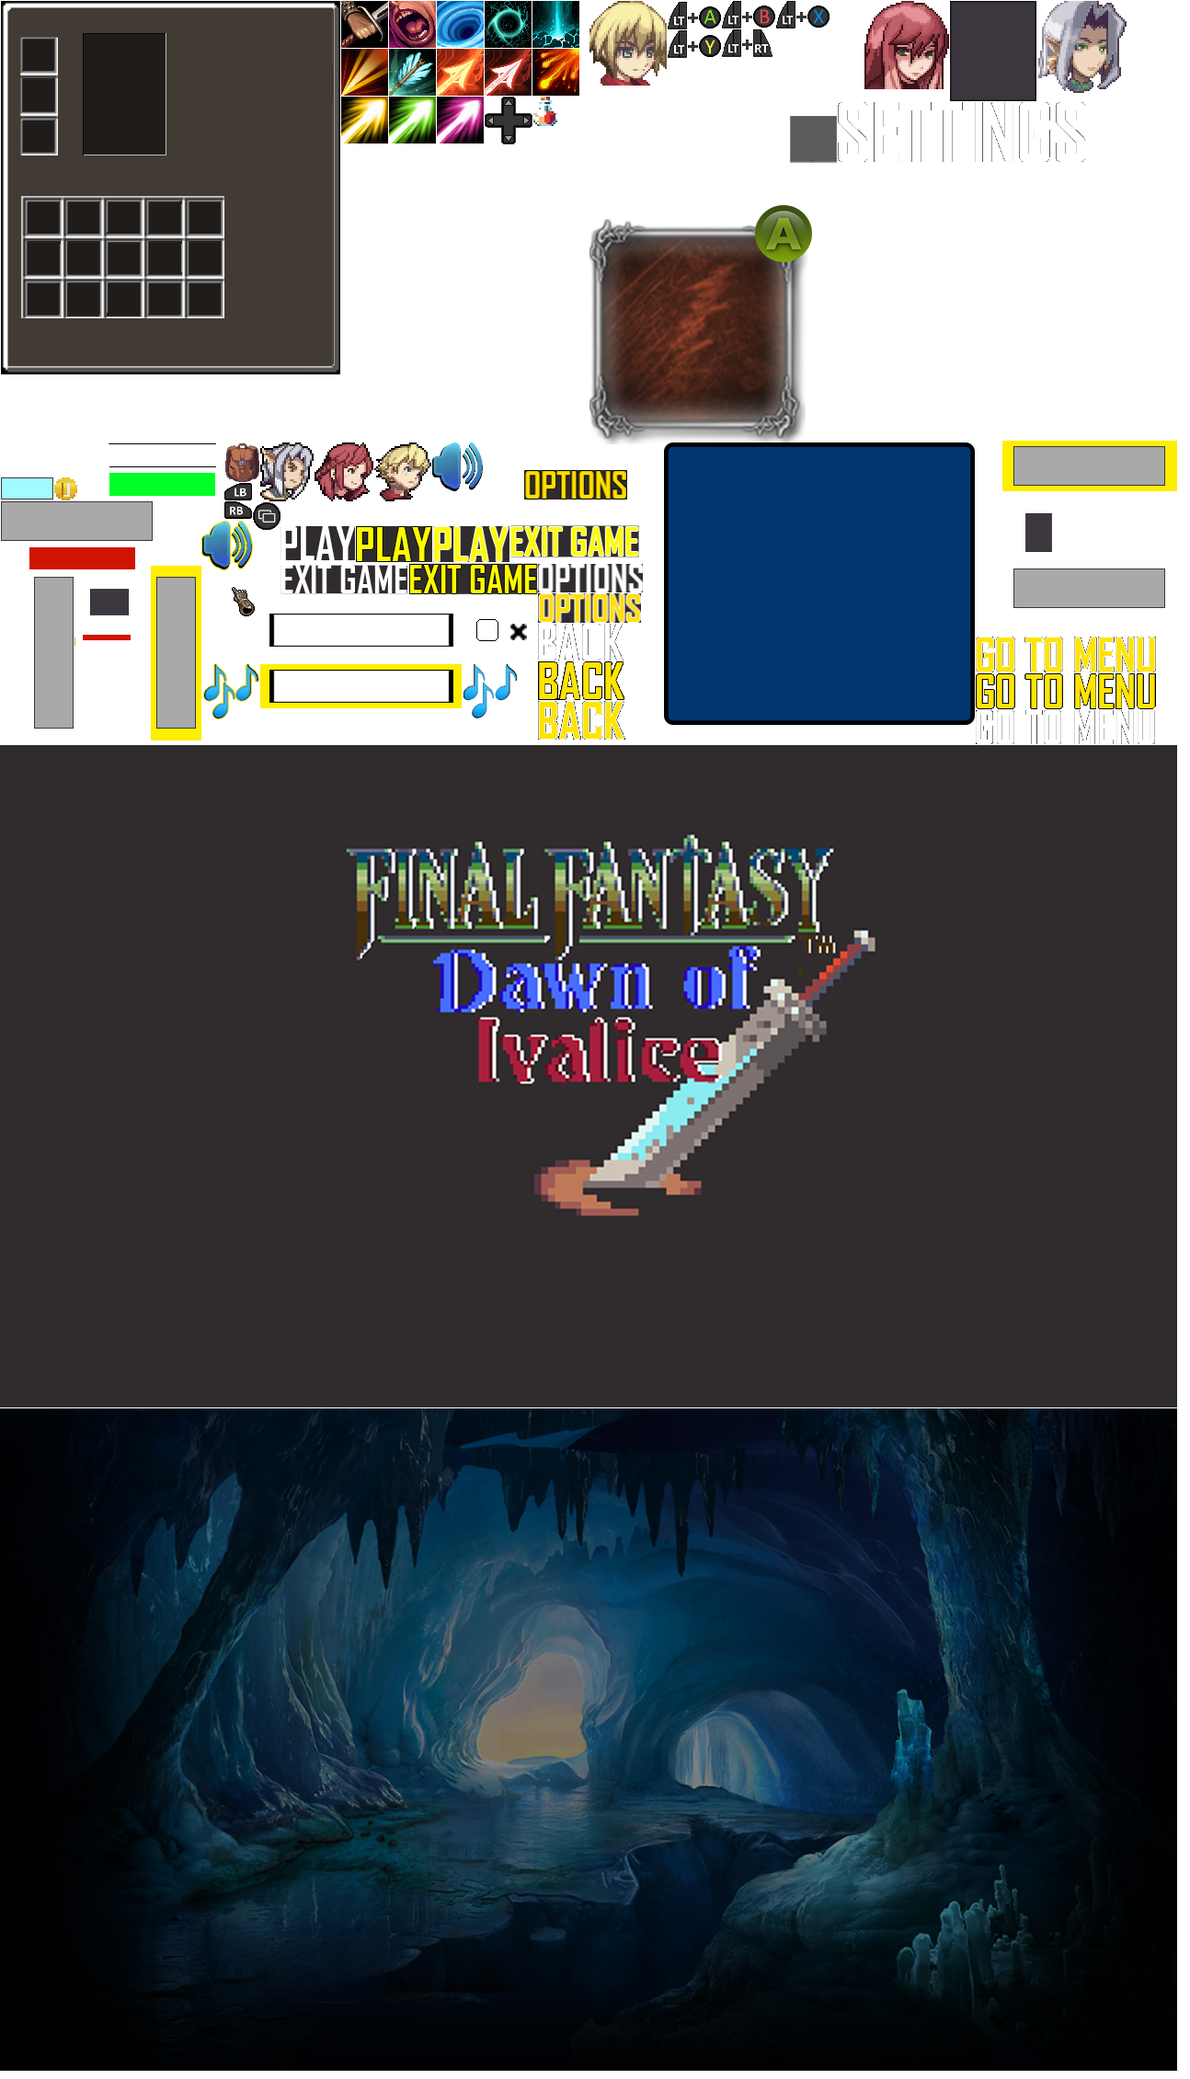
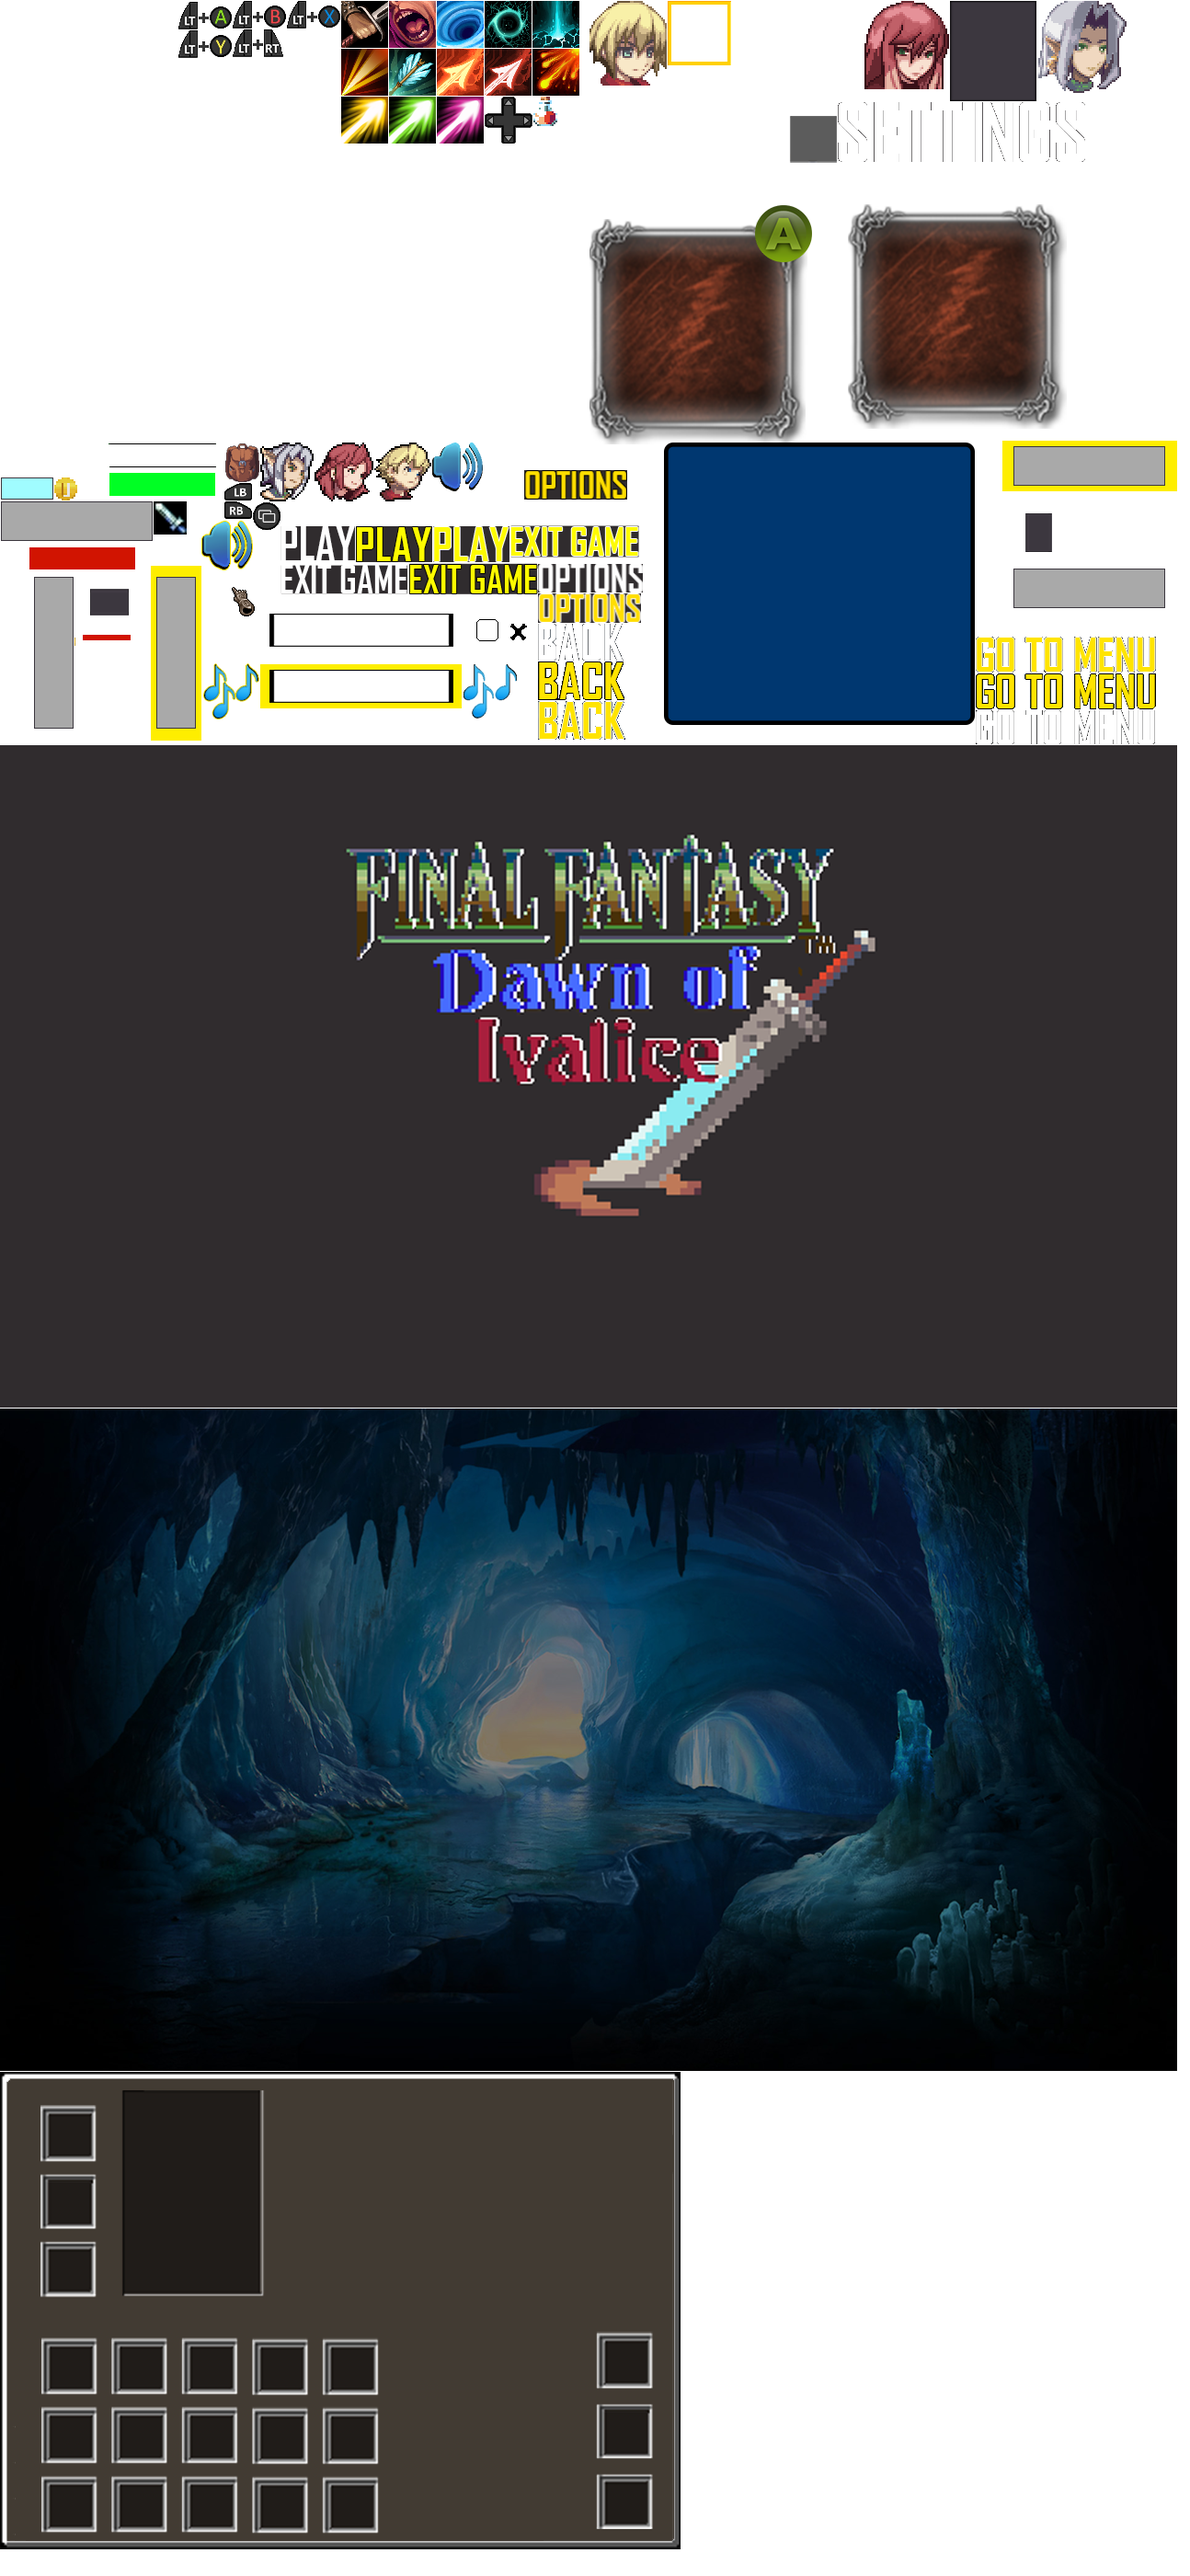
inventory updated

diff --git a/Motor2D/j1Scene.cpp b/Motor2D/j1Scene.cpp
@@ -699,6 +699,8 @@ bool j1Scene::LoadInventory(pugi::xml_node & nodeScene)
 	pugi::xml_node inventoryNode = nodeScene.child("Inventory");
 	inventory = App->gui->AddEmptyElement({ 0,0 });
 	LoadUiElement(inventory, inventoryNode);
+	inventoryItem = App->gui->AddInventory(inventory);
+	
 	return true;
 }
 
